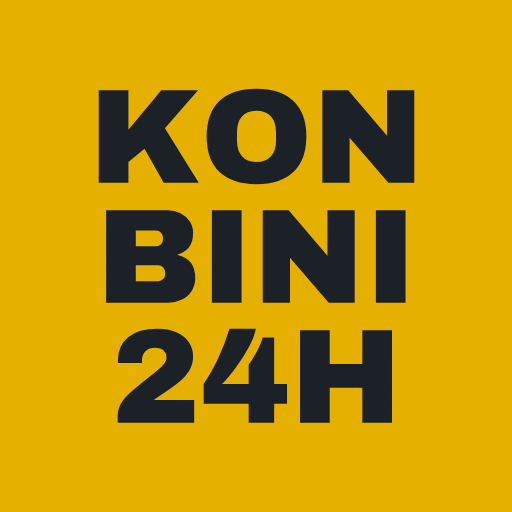
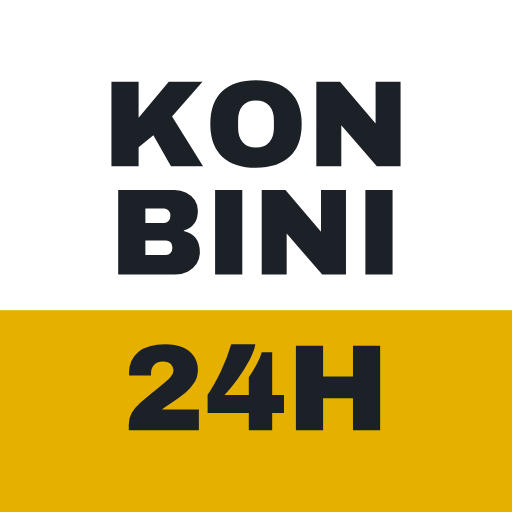
正方形のアイコンを2色に（上の白に KON・BINI、下のからし色に 24H）
Claude-Session: https://claude.ai/code/session_01NVsEU629k4kHTkbXKEjdsX

diff --git a/scripts/make_assets.py b/scripts/make_assets.py
@@ -5,7 +5,7 @@
   SVG に入れるので、ページはフォントを読み込まない。
 作るもの（site/assets/）:
   logo-a.svg            ページ上部のロゴ（案A: 白い看板＋からし色の帯に 24H）
-  icon.svg              アイコン（案C: からし色の正方形に KON・BINI・24H の3段、同じ文字の大きさ）
+  icon.svg              アイコン（案C: 上の白に KON・BINI、下のからし色に 24H の3段、同じ文字の大きさ）
   icon-*.png, apple-touch-icon.png, favicon-32.png, favicon.ico   アイコンの各サイズ（Playwright で描く）
   og.jpg                SNS で共有した時の絵（1200×630。東京の絵＋ロゴ）
   slide-*-1536.webp / slide-*-768.webp   背景のスライドショー（design/slide-*.webp を縮める）
@@ -74,25 +74,30 @@ def logo_a(font):
 '''
 
 
-def icon(font):
-    """正方形のアイコン（案C）: KON / BINI / 24H の3段。3段とも同じ文字の大きさで、アイコンに収まる範囲でいちばん大きく。"""
+def icon(font, fit=1.0):
+    """正方形のアイコン（案C）: 上の白い部分に KON / BINI、下のからし色の部分に 24H（横長のロゴと同じ2色）。
+    3段とも同じ文字の大きさで、アイコンに収まる範囲でいちばん大きく。BINI と 24H のあいだは少し広く開け、
+    そこで色を分ける。fit を 1 より小さくすると文字を小さくする（Android の丸く切り抜くアイコン用）。"""
     upm, cap = font["head"].unitsPerEm, font["OS/2"].sCapHeight
+    g, b, pad = 0.28, 0.42, 0.30          # 段のあいだ・色の境目の上下・上下の余白（文字の高さに対して）
     lines = ["KON", "BINI", "24H"]
-    box = 512 * 0.82                       # 角の丸みで切れないよう、外側に少し余白
-    gap_ratio = 0.3                        # 段のあいだ（文字の高さに対して）
-    size = min(box * upm / max(adv(font, t) for t in lines), box * upm / (cap * (3 + 2 * gap_ratio)))
-    c = cap * size / upm
-    top = (512 - c * (3 + 2 * gap_ratio)) / 2
-    paths = "".join(f'<path d="{text_path(font, t, 256, top + c * (i + 1) + c * gap_ratio * i, size)}" fill="{INK}"/>'
-                    for i, t in enumerate(lines))
+    c_by_h = 512 / (3 + g + 2 * b + 2 * pad)
+    c_by_w = 512 * 0.82 * cap / max(adv(font, t) for t in lines)
+    c = min(c_by_h, c_by_w) * fit
+    size = c * upm / cap
+    top = (512 - c * (3 + g + 2 * b)) / 2
+    base = [top + c, top + 2 * c + g * c, top + 3 * c + (g + 2 * b) * c]
+    split = top + 2 * c + (g + b) * c     # ここから下がからし色
+    paths = "".join(f'<path d="{text_path(font, t, 256, y, size)}" fill="{INK}"/>' for t, y in zip(lines, base))
     return f'''<svg xmlns="http://www.w3.org/2000/svg" viewBox="0 0 512 512" role="img" aria-label="KONBINI 24H">
-<rect width="512" height="512" fill="{MUSTARD}"/>
+<rect width="512" height="512" fill="#fff"/>
+<rect y="{split:.1f}" width="512" height="{512 - split:.1f}" fill="{MUSTARD}"/>
 {paths}
 </svg>
 '''
 
 
-def render_pngs(icon_svg, logo_svg, small_svg):
+def render_pngs(icon_svg, logo_svg, small_svg, maskable_svg):
     """アイコンと共有用の絵を、Node の Playwright（Chromium）で描いて保存する。"""
     import json
     import subprocess
@@ -101,9 +106,9 @@ def render_pngs(icon_svg, logo_svg, small_svg):
     jobs = []
     tmp = pathlib.Path(tempfile.mkdtemp())
     for name, size, pad in [("icon-512.png", 512, 0), ("icon-192.png", 192, 0), ("apple-touch-icon.png", 180, 0),
-                            ("favicon-32.png", 32, 0), ("icon-maskable-512.png", 512, 0.1)]:
+                            ("favicon-32.png", 32, 0), ("icon-maskable-512.png", 512, 0)]:
         inner = int(size * (1 - 2 * pad))
-        svg = small_svg if size <= 48 else icon_svg
+        svg = small_svg if size <= 48 else maskable_svg if "maskable" in name else icon_svg
         html = (f'<body style="margin:0;background:{MUSTARD};display:grid;place-items:center;'
                 f'width:{size}px;height:{size}px"><div style="width:{inner}px;height:{inner}px">'
                 + svg.replace("<svg ", f'<svg width="{inner}" height="{inner}" ') + "</div></body>")
@@ -145,7 +150,7 @@ def main():
     (OUT / "logo-a.svg").write_text(la, encoding="utf-8")
     (OUT / "icon.svg").write_text(ic, encoding="utf-8")
     slides()
-    render_pngs(ic, la, icon_small(font))
+    render_pngs(ic, la, icon_small(font), icon(font, fit=0.78))
     for f in sorted(OUT.iterdir()):
         print(f"{f.name}\t{f.stat().st_size // 1024} KB")
 

diff --git a/docs/spec.md b/docs/spec.md
@@ -120,7 +120,7 @@
 
 ## ページ上部・ロゴ・見せ方（2026-11-09 決定）
 
-- **ロゴ**: ページ上部は **A（看板そのまま）**: 白い看板の上に KONBINI、下のからし色の帯に 24H（2026-11-10: 2段の文字を同じ大きさに）。ホーム画面のアイコンは **C（正方形）**: からし色の四角に **KON / BINI / 24H の3段**、3段とも同じ文字の大きさで、アイコンに収まる範囲でいちばん大きく（2026-11-10 に変更）。タブの小さいアイコンは 24H だけ（`design/logo-candidates.html`）。色はからし色 #E5B000 と墨色 #1C2127。からし色の上の文字は墨色。文字は線（アウトライン）にした画像にする
+- **ロゴ**: ページ上部は **A（看板そのまま）**: 白い看板の上に KONBINI、下のからし色の帯に 24H（2026-11-10: 2段の文字を同じ大きさに）。ホーム画面のアイコンは **C（正方形）**: **KON / BINI / 24H の3段**。横長のロゴと同じ2色で、上の白に KON・BINI、下のからし色に 24H（BINI と 24H のあいだを少し広く開けて色を分ける）。3段とも同じ文字の大きさで、アイコンに収まる範囲でいちばん大きく（2026-11-10 に変更）。タブの小さいアイコンは 24H だけ（`design/logo-candidates.html`）。色はからし色 #E5B000 と墨色 #1C2127。からし色の上の文字は墨色。文字は線（アウトライン）にした画像にする
 - **背景のスライドショー**: 東京 → 京都 → 富士山 → 坂道 の順に、6秒ごとにふわっと重ねて切り替える。画面の動きを減らす設定（`prefers-reduced-motion`）の端末では自動で切り替えず、指で送る。京都と坂道は見せる位置を左寄りにする（人物が左寄りのため）。1枚目だけ先に読み込み、残りは後から読み込む
 - **絵の上の文字**: 絵の下の暗い部分に、ロゴ（A）と各言語のタイトル・1行の説明を重ねる
 - **スライドに添える言葉**: 1枚ごとに込めた思いを短く出す（各言語）。例: 東京「夜中の2時でも開いている」、京都「京都の町にも似合う」、富士山「旅の途中に、ふらっと」、坂道「いつもの帰り道に」（文言は作る時に4言語で整える）

diff --git a/STATUS.md b/STATUS.md
@@ -71,7 +71,7 @@
 - 2026-11-09: 人がリポジトリを public にし、Pages の Source を GitHub Actions にした。手で動かした2回目（集め直し→ data ブランチに記録→公開）と、PR #13 のマージで動いた3回目が成功。**https://uniiqcode.com/konbini-24h/ で公開**。集め直しで86本、分類のページは rice・sweets・mixed（1言語8ページ）。訪問者数も受け取れた
 - 2026-11-09: uniiqcode.com のトップのメニュー（業スー酒場の次）・JSON-LD・robots.txt のサイトマップの行にコンビニ24H を足した（uniiqcode/uniiqcode.github.io の PR #29、マージ済み）
 - 2026-11-09: 人が Search Console と Bing にサイトマップを送った
-- 2026-11-10: 人の指示で、**最初の並びを新しい順**に（開くたびに新しい動画が目に入るように）。**正方形のアイコンを KON / BINI / 24H の3段**（同じ文字の大きさで、収まる範囲でいちばん大きく）に、横長のロゴ A も2段の文字を同じ大きさにした。共有用の絵も作り直した
+- 2026-11-10: 人の指示で、**最初の並びを新しい順**に（開くたびに新しい動画が目に入るように）。**正方形のアイコンを KON / BINI / 24H の3段**（同じ文字の大きさで、収まる範囲でいちばん大きく。横長のロゴと同じ2色で、上の白に KON・BINI、下のからし色に 24H）に、横長のロゴ A も2段の文字を同じ大きさにした。共有用の絵も作り直した
 - 2026-11-07: スライド1の2回目（`design/slide-tokyo.webp`）を**採用**
 - 2026-11-07: 次は京都の夕方（町家の通りのコンビニの前で、レンタル着物の黒人の男女が手を振り、舞妓さんが会釈して通り過ぎる）。日本らしさの中にアニメもあるので、写真風・アニメ背景美術風・写真＋アニメ調の人物の3つのタッチで比べる → `design/hero-slides.md`
 - 2026-11-07: 京都の1回目は舞妓さんが話を盛りすぎ・コンビニの意味がない → 舞妓さんを消し、食べ歩きをしない形で商品とつなげる（二人が買ったばかりの抹茶のロールケーキを見せ合う）。2回目を**採用**（`design/slide-kyoto.webp`）。残りは2場面
